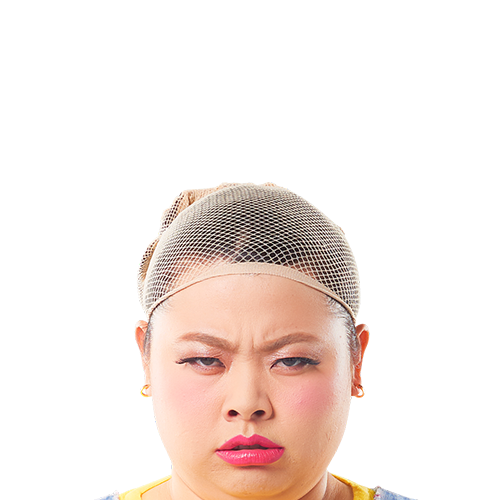
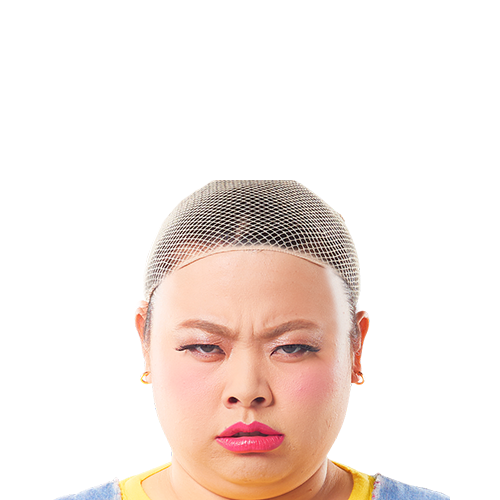
add hairs

Changed region(s): [[0.12, 0.36, 0.9, 1.0]]

diff --git a/src/Config.js b/src/Config.js
@@ -46,11 +46,11 @@ const hairConfig = {
   tag: 'HAIR',
   offset: {
     x: 0,
-    y: -5
+    y: 0
   },
   size: {
-    width: 400,
-    height: 400,
+    width: 500,
+    height: 500,
   },
   controls: {
     'tl':false,

diff --git a/src/Assets.js b/src/Assets.js
@@ -4,7 +4,7 @@ const assetBaseDir = '/static/media/'
 const faceNums = 15
 const faceAssetDir =  assetBaseDir + 'faces/'
 
-const hairNums = 15
+const hairNums = 10
 const hairAssetDir = assetBaseDir + 'hairs/'
 
 
